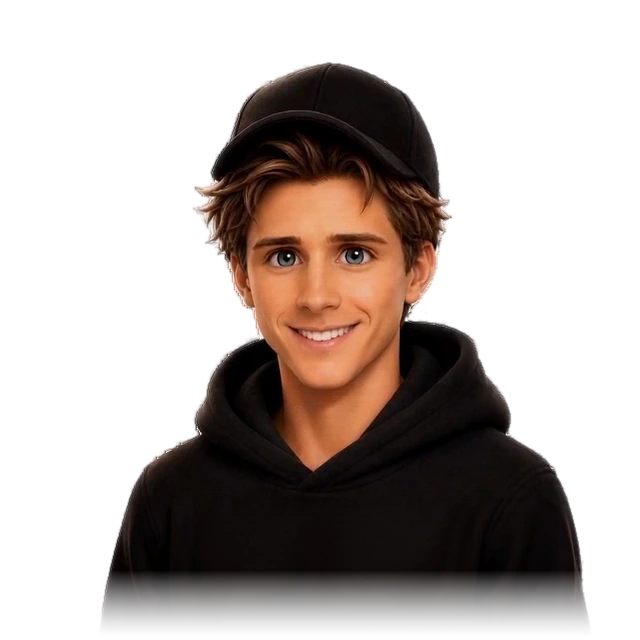
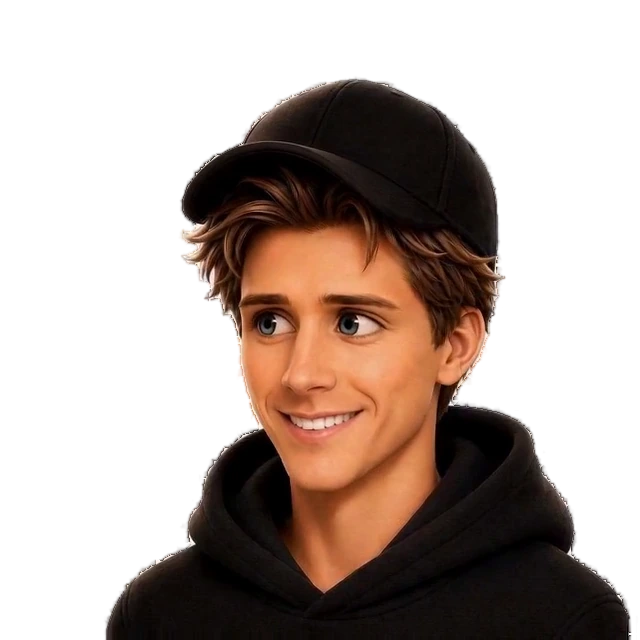
5678

diff --git a/index.html b/index.html
@@ -1792,19 +1792,40 @@
      He is a still image. The head cannot drift, because every frame was
      stabilised onto one head position before the asset was cut — only the
      eye patch below is ever swapped. */
-  .abch{position:absolute;left:-26.278%;top:-17.330%;
-        width:143.091%;height:143.091%;
+  .abch{position:absolute;left:-17.19%;top:-15.62%;
+        width:115.64%;height:115.64%;
         background:url(media/abchar.webp) center / contain no-repeat;
         pointer-events:none;z-index:1;
-        opacity:0;transition:opacity .28s ease}
+        opacity:0;transition:opacity .28s ease;
+        /* CUT INTO THE CIRCLE, bottom only. Two mask layers added together:
+           the disc itself, and everything above the disc's own centre line.
+           So the hoodie and shoulders are taken by the arc below the middle
+           and the cap runs free over the top — which is what 720:52823 draws,
+           and what the mock's bottom edge measures as (a circle fitted to it
+           lands on centre y 300, r 177 against the disc's 310 / 176). */
+        -webkit-mask-image:radial-gradient(circle at 58.103% 56.745%,
+              #000 calc(var(--abhl) * var(--ab-av) * .5 - .5px),
+              transparent calc(var(--abhl) * var(--ab-av) * .5)),
+              linear-gradient(#000,#000);
+        mask-image:radial-gradient(circle at 58.103% 56.745%,
+              #000 calc(var(--abhl) * var(--ab-av) * .5 - .5px),
+              transparent calc(var(--abhl) * var(--ab-av) * .5)),
+              linear-gradient(#000,#000);
+        -webkit-mask-size:100% 100%, 100% 56.745%;
+        mask-size:100% 100%, 100% 56.745%;
+        -webkit-mask-repeat:no-repeat;mask-repeat:no-repeat;
+        -webkit-mask-composite:source-over;mask-composite:add}
   .abch.on{opacity:1}
   /* 238 / 222 / 166 x 76 of the 640 frame — the eyes and nothing else. The
      sheet is 20 states stacked, and the border of each is feathered 6px so
      the join into the base cannot be read. */
-  .abeyes{position:absolute;left:37.1875%;top:34.6875%;
-        width:25.9375%;height:11.875%;
-        background:url(media/abeyes.webp) 0 0 / 100% 2000% no-repeat;
-        will-change:background-position}
+  /* 226 / 282 / 192 x 92 of the 640 frame. TWO layers, not one: the second
+     is cross-faded over the first by how close the cursor is to each state,
+     so the eyes travel continuously instead of stepping between stills. */
+  .abeyes{position:absolute;left:35.3125%;top:44.0625%;
+        width:30%;height:14.375%;
+        background:url(media/abeyes.webp) 0 0 / 100% 6700% no-repeat;
+        will-change:background-position,opacity}
   /* the full stop is a drawn circle, so it can carry the pulse */
   .abdot{flex:none;display:block;
          width:calc(var(--abhl) * var(--ab-dot));
@@ -7048,7 +7069,7 @@
       <div class="abr2" aria-hidden="true"><span class="abline abword"><span class="txt">S<span class="ke">E</span>TS</span></span><span class="abline abword"><span class="txt"><span class="kt">T</span>HE</span></span></div>
       <div class="abbot">
         <span class="abline abword abwide"><span class="txt"><span class="kt">T</span>HE</span></span>
-        <span class="abav" role="img" aria-label="Kris Jensson"><span class="abavcard"><span class="abavface abavf is-photo"></span><span class="abavface abavb is-blank"></span></span><span class="abch" id="abCh" aria-hidden="true"><i class="abeyes" id="abEyes"></i></span></span>
+        <span class="abav" role="img" aria-label="Kris Jensson"><span class="abavcard"><span class="abavface abavf is-photo"></span><span class="abavface abavb is-blank"></span></span><span class="abch" id="abCh" aria-hidden="true"><i class="abeyes" id="abEyesA"></i><i class="abeyes" id="abEyesB"></i></span></span>
         <span class="abpul"><span class="abline abword"><span class="txt"><span class="kp">P</span>U<span class="kl">L</span><span class="ks">S</span><span class="pe">E</span></span></span><i class="abdot" aria-hidden="true"></i></span>
       </div>
     </div>
@@ -12726,38 +12747,55 @@
 </script>
 <script>
 /* ── the gaze ─────────────────────────────────────────────────────────
-   The source is a 4s clip of one eye sweep. It was taken apart rather than
-   played: every frame stabilised onto a single head position, the white
-   ground keyed out to real alpha, and then only the EYE RECTANGLE cut out
-   of twenty of them. So the character on the page is one still image and
-   the only thing that ever changes is a 166x76 patch over his eyes. He
-   cannot move, drift, rotate or scale, because there is nothing in the
-   asset that could.
+   The clip is taken apart, not played. Every frame is aligned, the white
+   ground keyed to real alpha, and only the EYE RECTANGLE — 192x92 of the 640
+   frame — cut out of thirty-two of them. The character on the page is one
+   still image; the only thing that ever changes is a patch over his eyes, so
+   he cannot move, drift, rotate or scale.
 
-   WHAT THE CLIP ACTUALLY CONTAINS, measured rather than assumed: the pupils
-   travel 10.7px across and only 2.7px up and down, so the horizontal gaze
-   is real and the vertical is a quarter of it. The nine directions are not
-   evenly spaced either — the sweep runs left at 0.5-1.3s, right at
-   1.7-2.1s, low-right at 2.2-2.4s, and blinks at 1.3-1.6s and 2.5-2.9s,
-   which are dropped. The twenty states below are a farthest-point pick over
-   the measured cloud, each stored as where its pupils actually sit, so the
-   nearest state to a wanted direction is the one that gets shown.
+   WHAT THIS CLIP HOLDS, measured rather than assumed: the pupils travel
+   26.8px across and 5.4px down — two and a half times the first take on both
+   axes, but with a 0.74-wide hole where it blinks through the middle, which is
+   bridged with coarse optical-flow in-betweens so nothing has to be jumped. Two blinks, at 1.0-1.5s and 3.3-3.6s, are dropped: half-closed lids
+   are what made the first attempt read as clip art, not the pupils.
+
+   The head in this take drifts and scales by up to 24px, so a global warp
+   could not hold it — the model redraws him slightly every frame. Each patch
+   is instead aligned to the base's own eye region, measured on a ring with
+   the eyes masked out so the gaze cannot bias the fit. Residual: under 1px.
+
+   SMOOTHNESS comes from never showing one state alone. The two nearest are
+   stacked and cross-faded by their relative distance, so at the moment the
+   second becomes the nearest they are both at half — the travel is continuous
+   and there is no frame to step to.
 
    [nx, ny], -1..1: nx -1 looks screen-left, ny -1 looks up. */
 (function(){
-  var av = document.getElementById('abCh'), eyes = document.getElementById('abEyes');
-  if (!av || !eyes) return;
+  var av = document.getElementById('abCh');
+  var LA = document.getElementById('abEyesA'), LB = document.getElementById('abEyesB');
+  if (!av || !LA || !LB) return;
 
-  var G = [[0.2401,0.0052],[-0.9161,0.8534],[0.9077,-1],[0.6026,1],[1,0.071],
-           [-0.2395,0.6235],[-0.6481,0.2666],[0.6291,-0.5435],[0.2235,0.6713],
-           [0.8115,0.4319],[0.6239,-0.0665],[-0.5996,0.6221],[0.0372,0.2938],
-           [0.9413,-0.4733],[0.5635,0.232],[-0.9367,0.5663],[0.525,0.7315],
-           [0.9396,-0.1969],[0.3002,0.3196],[0.5305,-0.3011]];
-  var N = G.length, N0 = 0;                 /* index 0 is the forward state */
+  var G = [
+           [0.2568,0.6271],[0.2386,0.5958],[0.476,0.6882],[0.6619,0.4658],
+           [0.7778,0.6855],[0.8112,0.6461],[0.9064,0.7819],[0.907,0.6435],
+           [0.9005,0.7549],[0.9275,0.6577],[0.982,0.8431],[1,0.789],
+           [0.9372,0.7905],[0.9733,0.9384],[0.9267,0.7471],[0.9126,0.5173],
+           [0.9926,0.9352],[0.9308,0.6383],[0.9283,0.6744],[0.9443,0.6663],
+           [0.9172,0.6237],[0.9563,0.5535],[0.8904,0.5653],[0.7589,0.1079],
+           [-1,0.4476],[-0.8979,0.8413],[-0.9871,0.4842],[-0.941,0.8004],
+           [-0.896,0.715],[-0.8593,0.6427],[-0.8409,0.9832],[-0.8426,0.7291],
+           [-0.8616,0.8111],[-0.8397,0.8211],[-0.895,0.8233],[-0.8489,0.9411],
+           [-0.8746,0.8705],[-0.5496,0.7182],[-0.4813,-0.016],[0.3975,-1],
+           [-0.8566,0.8348],[-0.7571,0.5241],[-0.5642,0.2466],[0.6979,0.7038],
+           [0.8131,0.7782],[0.8647,0.8982],[0.8922,0.6559],[0.9078,1],
+           [0.9483,0.8491],[0.9637,0.9608],[0.948,0.8141],[0.953,0.7479],
+           [0.9357,0.473],[0.9303,0.6484],[0.89,0.6074],[0.9023,0.665],
+           [0.8939,0.7769],[0.9151,0.7893],[0.8784,0.7687],[0.8318,0.6489],
+           [0.8328,0.7463],[0.8235,0.4702],[0.2636,0.5685],[0.2624,0.4621],
+           [0.2753,0.5867],[0.2653,0.5818],[0.2812,0.5063]];
+  var N = G.length, N0 = 38;
   var NX = G[N0][0], NY = G[N0][1];
 
-  /* preload both halves before he appears, so the eyes are never a beat
-     behind the face */
   var left = 2;
   ['media/abchar.webp','media/abeyes.webp'].forEach(function(u){
     var im = new Image();
@@ -12765,79 +12803,70 @@
     im.src = u;
   });
 
-  var cur = -1;
-  function show(i){
-    if (i === cur) return;
-    cur = i;
-    eyes.style.backgroundPositionY = (i / (N - 1) * 100) + '%';
+  var STEP = 100 / (N - 1);
+  var ca = -1, cb = -1, cw = -1;
+  function paint(a, b, w){
+    if (a !== ca){ ca = a; LA.style.backgroundPositionY = (a * STEP) + '%'; }
+    if (b !== cb){ cb = b; LB.style.backgroundPositionY = (b * STEP) + '%'; }
+    if (w !== cw){ cw = w; LB.style.opacity = w; }
   }
-  /* The across-axis is weighted 3x in the match. Not a preference — the
-     clip's vertical pupil travel is 2.7px against 10.7px across, which at the
-     size he is drawn works out under a pixel, so the up/down component is
-     invisible while the left/right one is the whole effect. Matching them
-     evenly let a cursor straight overhead pull his eyes to the right, which
-     is worse than the vertical simply not arriving. */
-  var WX = 3;
-  function nearest(x, y){
-    var b = N0, bd = 1e9;
+
+  /* Across is weighted: the clip's vertical travel is a fifth of its
+     horizontal, so an evenly matched pick would let a cursor overhead drag
+     his eyes sideways to reach a state that is barely higher. */
+  var WX = 2;
+  function put(x, y){
+    var i1 = N0, d1 = 1e9, i2 = N0, d2 = 1e9;
     for (var i = 0; i < N; i++){
-      var dx = (G[i][0] - x) * WX, dy = G[i][1] - y, d = dx*dx + dy*dy;
-      if (d < bd){ bd = d; b = i; }
+      var dx = (G[i][0] - x) * WX, dy = G[i][1] - y, d = Math.sqrt(dx*dx + dy*dy);
+      if (d < d1){ d2 = d1; i2 = i1; d1 = d; i1 = i; }
+      else if (d < d2){ d2 = d; i2 = i; }
     }
-    return b;
+    /* at the hand-over the two are equidistant and both sit at a half, so the
+       swap happens with nothing to see */
+    var w = (d1 + d2) > 1e-6 ? d1 / (d1 + d2) : 0;
+    paint(i1, i2, Math.round(w * 100) / 100);
   }
-  show(N0);
+  put(NX, NY);
 
   var STILL = matchMedia('(prefers-reduced-motion: reduce)');
   var FINE  = matchMedia('(hover: hover) and (pointer: fine)');
 
-  /* the pupils' own middle, 321/259 of the 640 frame, is the origin the
-     angle is taken from — not the box, and not the disc */
-  var EX = 0.501562, EY = 0.404688;
-  var DEAD = 0.16;            /* inside this the eyes just face forward */
+  var EX = 0.4945, EY = 0.50625;   /* the pupils' own middle in the 640 frame */
+  var DEAD = 0.16;
   var page = document.getElementById('pgResume');
 
   var mx = 0, my = 0, have = false;
   var tx = NX, ty = NY, cx = NX, cy = NY, raf = 0, last = 0;
-
-  function want(){ if (!raf) { last = 0; raf = requestAnimationFrame(tick); } }
+  function want(){ if (!raf){ last = 0; raf = requestAnimationFrame(tick); } }
 
   function tick(ts){
     raf = 0;
     var dt = last ? Math.min(64, ts - last) : 16.7; last = ts;
-
     if (have && !(page && page.hidden)){
       var r = av.getBoundingClientRect();
       if (r.width){
         var ox = r.left + r.width * EX, oy = r.top + r.height * EY;
-        /* one radius for both axes, off the smaller side of the window, so
-           the reach feels the same however the window is shaped */
         var R = Math.max(260, Math.min(innerWidth, innerHeight) * 0.55);
         var ux = (mx - ox) / R, uy = (my - oy) / R;
         var len = Math.hypot(ux, uy);
         if (len < DEAD){ tx = NX; ty = NY; }
         else {
           if (len > 1){ ux /= len; uy /= len; }
-          /* 0 lands on the forward state and ±1 on the far edge of what the
-             clip actually holds, so nothing is asked of it that is not there */
           tx = NX + ux * (ux > 0 ? 1 - NX : 1 + NX);
           ty = NY + uy * (uy > 0 ? 1 - NY : 1 + NY);
         }
       }
     } else { tx = NX; ty = NY; }
-
-    /* framerate-independent ease — a short lag, not a lock */
     var k = 1 - Math.pow(1 - 0.16, dt / 16.7);
     cx += (tx - cx) * k; cy += (ty - cy) * k;
-    show(nearest(cx, cy));
-
-    if (Math.abs(tx - cx) > 0.002 || Math.abs(ty - cy) > 0.002) raf = requestAnimationFrame(tick);
+    put(cx, cy);
+    if (Math.abs(tx - cx) > 0.0015 || Math.abs(ty - cy) > 0.0015) raf = requestAnimationFrame(tick);
   }
 
   function arm(){
     if (STILL.matches || !FINE.matches){
-      have = false; cx = tx = NX; cy = ty = NY; show(N0);
-      return;
+      have = false; cx = tx = NX; cy = ty = NY; put(NX, NY); return;
     }
     addEventListener('pointermove', function(e){
       if (e.pointerType && e.pointerType !== 'mouse') return;
